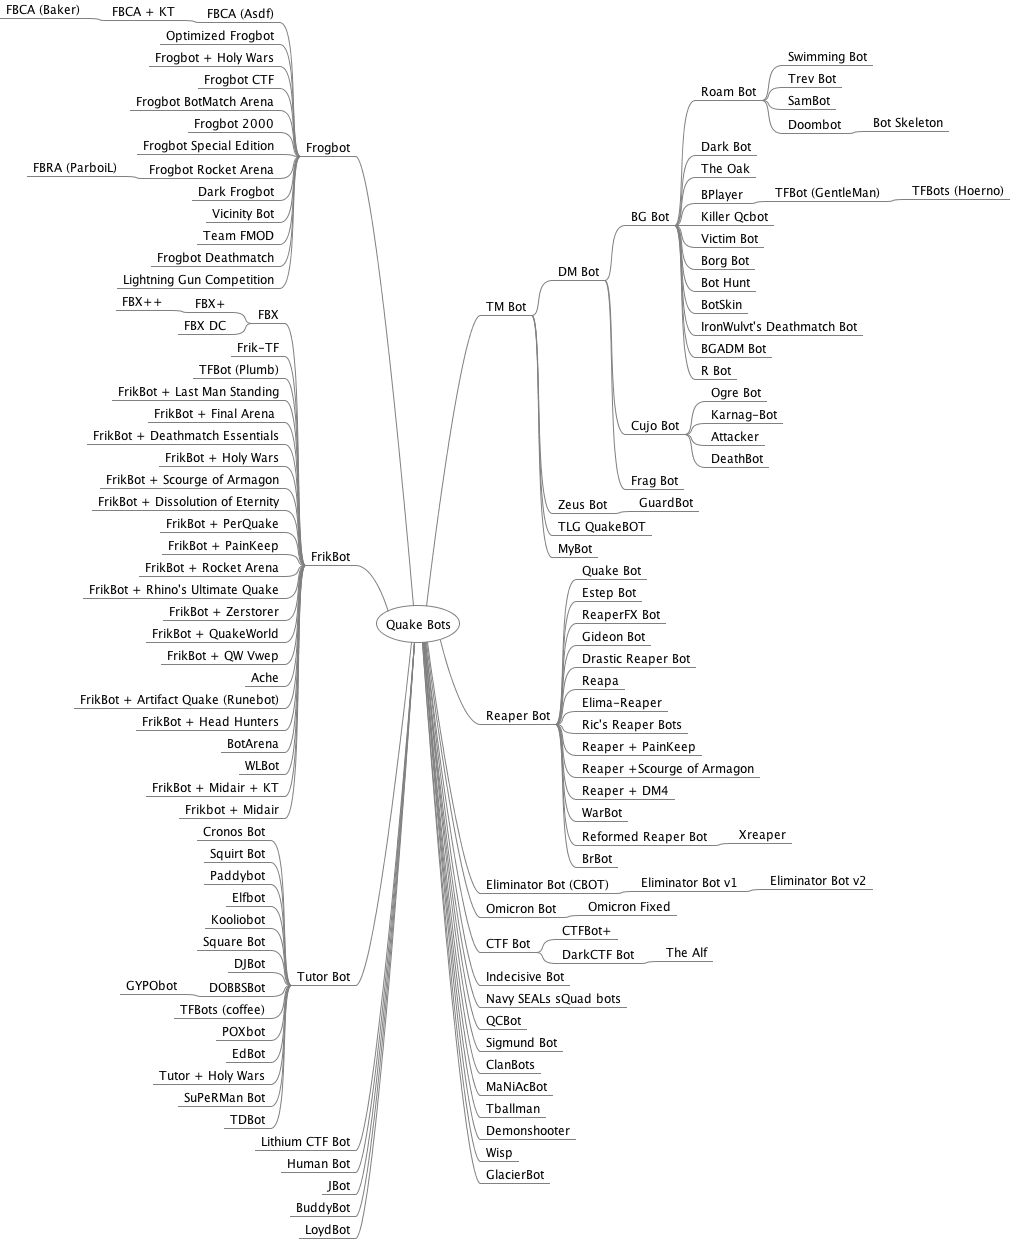
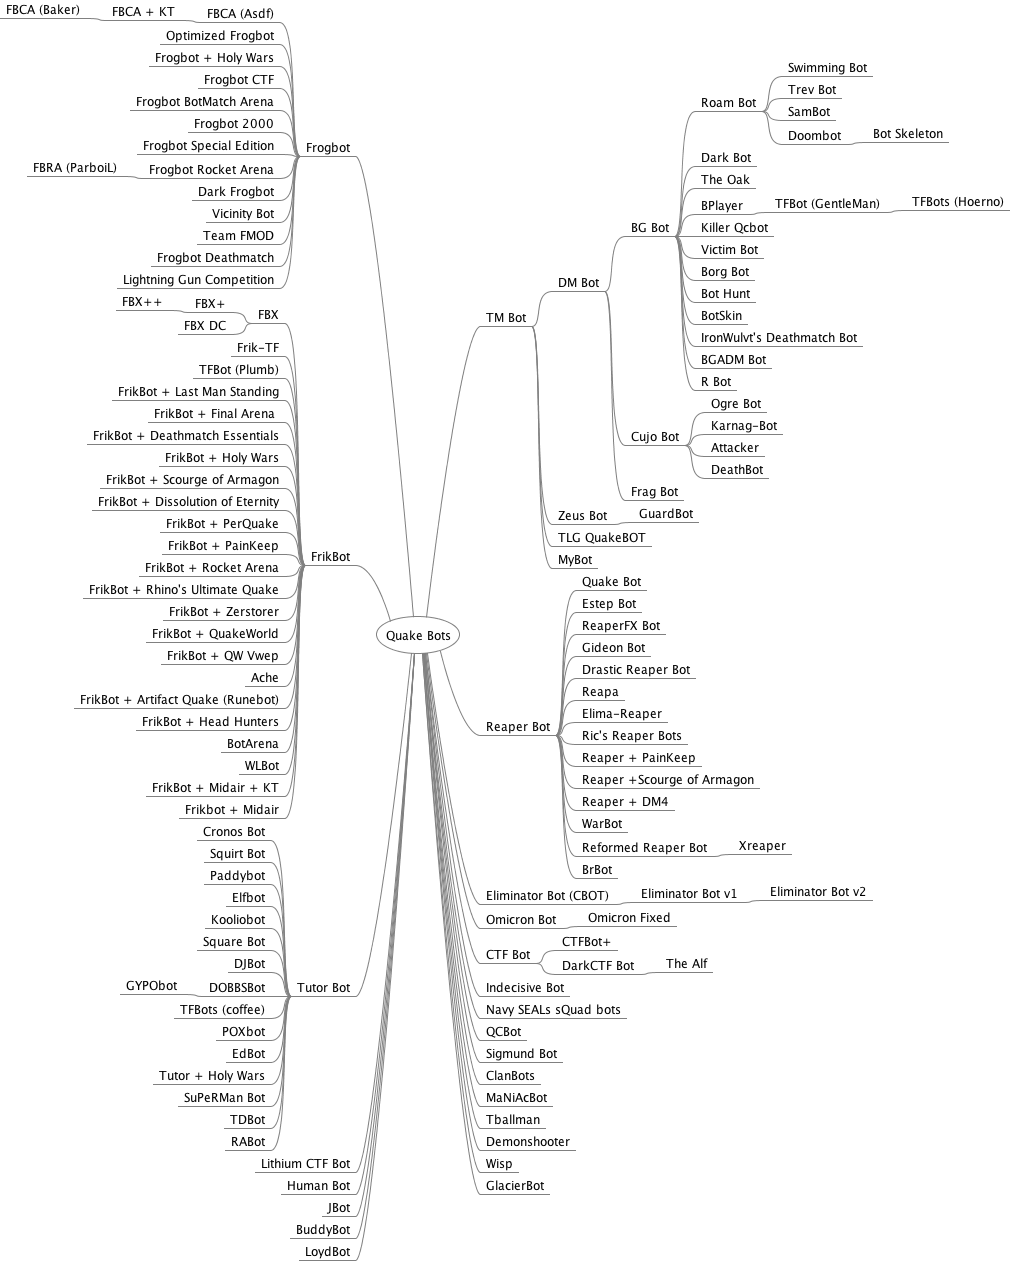
added RABot

diff --git a/mindmap/QuakeBots.mm b/mindmap/QuakeBots.mm
@@ -142,6 +142,7 @@
 <node CREATED="1623276595471" ID="ID_1419435534" MODIFIED="1624061712280" TEXT="Tutor + Holy Wars"/>
 <node CREATED="1623985508026" ID="ID_247704763" MODIFIED="1623985508876" TEXT="SuPeRMan Bot"/>
 <node CREATED="1624406124628" ID="ID_589837369" MODIFIED="1624406125606" TEXT="TDBot"/>
+<node CREATED="1624577916523" ID="ID_612633407" MODIFIED="1624577918018" TEXT="RABot"/>
 </node>
 <node CREATED="1622675037053" ID="ID_1770647602" MODIFIED="1622675039068" POSITION="right" TEXT="Indecisive Bot"/>
 <node CREATED="1622682184306" ID="ID_1458910225" MODIFIED="1622682185577" POSITION="right" TEXT="Navy SEALs sQuad bots"/>

diff --git a/README.md b/README.md
@@ -111,6 +111,7 @@ POXbot | "pOx" | [pox120b.zip](bin/pox120b.zip)
 QCBot | Alan Kivlin aka "Virtuoso" | [qcbot003.zip](bin/qcbot003.zip) <br>qcbot002.zip<br>qcbot001.zip
 Quake Bot (QBot) | "Grinder" | [qbot11.zip](bin/qbot11.zip)
 R Bot | Ross Johnson aka "ColdKill" | [rbot70.zip](bin/rbot70.zip)<br>[rbot20.zip](bin/rbot20.zip)<br>rbot.zip
+RABot | Rodrigo Marx aka "Shooter" | [rabot.zip](bin/rabot.zip)
 Reapa | Terry Hendrix II aka "Mongoose" | ?
 Reaper + DM4 | "Hades" | [dm4reaper.zip](bin/dm4reaper.zip)
 Reaper + Painkeep | Bent Svendsen aka "Decker" | [pkbot.zip](bin/pkbot.zip)
